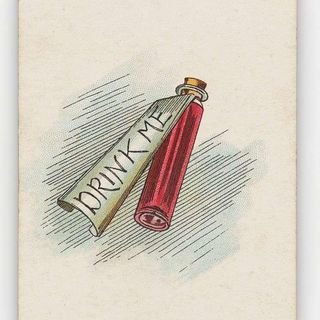
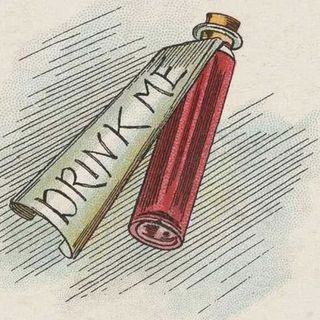
Add files via upload

diff --git a/thoughts/small-talk.html b/thoughts/small-talk.html
@@ -59,8 +59,8 @@
         <p class="thought-date">22nd October 2026. From a kitchen table in Dundee. 2pm.</p>
         <figure class="project-figure">
           <img class="project-image" src="../images/thoughts/small-talk-720.jpg"
-            width="720" height="990"
-            alt="An old Alice in Wonderland playing card, number 4, titled The Bottle: a small red bottle with a paper label reading DRINK ME.">
+            width="720" height="586"
+            alt="A small red bottle with a paper label reading DRINK ME, from an old Alice in Wonderland playing card.">
           <figcaption class="credit">Image credit: <a href="https://picryl.com/media/alice-in-wonderland-cards-8d3533">https://picryl.com/media/alice-in-wonderland-cards-8d3533</a></figcaption>
         </figure>
         <figure class="project-figure">

diff --git a/index.html b/index.html
@@ -50,8 +50,8 @@
     <figure class="future">
       <a class="feature-link" href="thoughts/small-talk.html">
         <img src="images/thoughts/small-talk-home-720.jpg"
-          width="720" height="990"
-          alt="An old Alice in Wonderland playing card, number 4, titled The Bottle: a small red bottle with a paper label reading DRINK ME.">
+          width="720" height="586"
+          alt="A small red bottle with a paper label reading DRINK ME, from an old Alice in Wonderland playing card.">
       </a>
       <figcaption><a href="thoughts/small-talk.html">Small talk.</a></figcaption>
     </figure>
